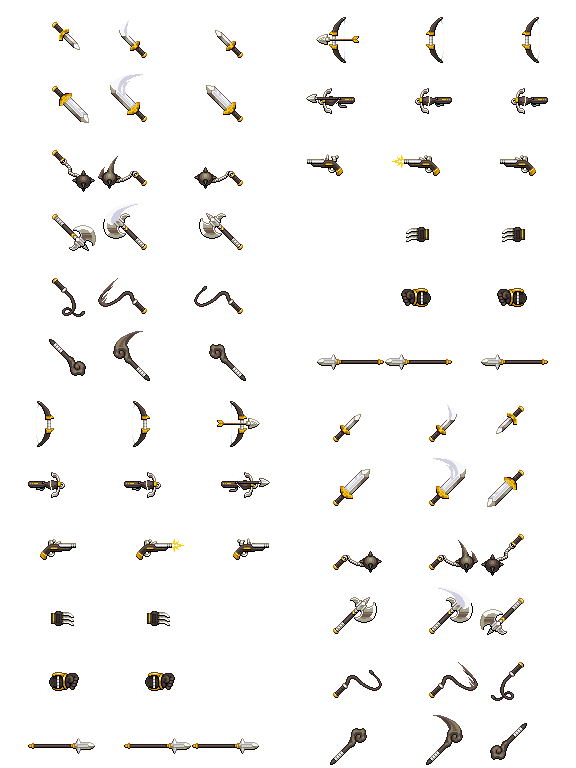
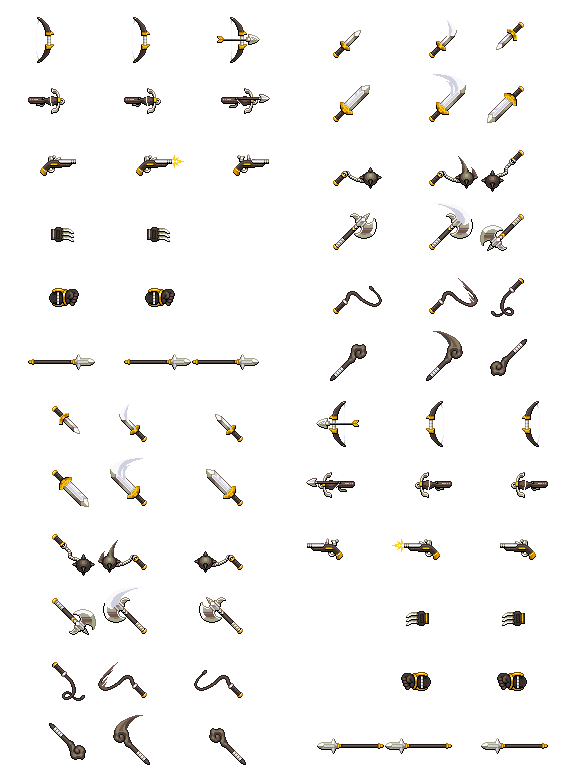
增加子彈、調整武器動畫
利用weapon物件

diff --git a/SlimeQQ_game.js b/SlimeQQ_game.js
@@ -48,6 +48,7 @@ game.States.preload = function(){
     	//game.load.image('slime',res_path + '/res/slime.png');
     	game.load.spritesheet('slime',res_path + '/img/sv_slime_sheet.png',64,64,54);
     	game.load.spritesheet('weapon',res_path + '/img/Weapons1+3.png',96,64,72);
+    	game.load.spritesheet('bullet',res_path + '/img/rgblaser.png', 4, 4);
     	//game.load.atlas();
     	/*
     	game.load.image('ground','assets/ground.png'); //地面
@@ -122,7 +123,7 @@ game.States.play = function(){
 		this.player.animations.add('move_left',[0,1,2,2,1,0],10,true);
 		this.player.animations.add('move_right',[6,7,8,8,7,6],10,true);
 		this.player.animations.add('attack',[12,13,14,12],6,false);
-		this.player.anchor.setTo(0.5,0.5);
+		this.player.anchor.setTo(0.5,0.6);
 		this.physics.arcade.enable(this.player);
 		this.player.body.collideWorldBounds = true;
 		this.player.body.setSize(50,40,7,24);
@@ -135,16 +136,30 @@ game.States.play = function(){
 		//生成武器
 
 		this.weapon = game.add.sprite(this.player.x,this.player.y,'weapon');
-		this.weapon.animations.add('gun_shut_left',[15,16,17],6,false);
-		this.weapon.animations.add('gun_shut_right',[57,58,59],6,false);
-		this.weapon.anchor.setTo(0.7,0.5);
+		//this.weapon.frame = 12;
+		this.weapon.animations.add('gun_shut_right',[14,13,12],9,false);
+		this.weapon.animations.add('gun_shut_left',[56,55,54],9,false);
+		this.weapon.anchor.setTo(0.2,0.5);
 		this.physics.arcade.enable(this.weapon);
 
 		this.player_group.add(this.weapon);
 		
-		this.weapon.frame = 17;
+		this.weapon.frame = 12;
+		//生成武器子彈
 
-		
+		this.bullet = game.add.weapon(40, 'bullet');
+		this.bullet.setBulletFrames(0, 80, true);
+		this.bullet.bulletKillType = Phaser.Weapon.KILL_DISTANCE;
+		this.bullet.bulletKillDistance = 500;
+		this.bullet.bulletSpeed = 1200;
+		//this.bullet.fireRate = 50;
+		this.bullet.trackSprite(this.weapon, 50, 0, true);
+		//this.bullet.trackedPointer = true;
+
+		//子彈發生頻率跟武器動畫
+		this.nextClick = this.time.now;
+		this.Clickstep = 500;
+		this.bullet.fireRate = this.Clickstep;
 
 		//控制
 		//game.input.onDown.add(this.attack,this);
@@ -172,57 +187,65 @@ game.States.play = function(){
 		//this.debug_show.style.backgroundColor = '#000';
 
 		//角色移動速度
-		this.step = 70;
-		this.speed = 700;
+		this.step = 2000;
+		this.speed = 1000;
 
-		//
-		this.nextClick = this.time.now;
-		this.Clickstep = 500;
+		//this.player.body.drag.set(800);
+    	this.player.body.maxVelocity.set(this.speed);
 
 	}
 	this.update = function(){
 		game.physics.arcade.collide(this.player,this.groundlayer);
+		game.physics.arcade.collide(this.bullet.bullets,this.groundlayer,this.bulletHitGround);
 
-		//this.player_group.setAll('body.velocity.x',this.player.body.velocity.x);
-		//this.player_group.setAll('body.velocity.y',this.player.body.velocity.y);
+		this.player_group.setAll('body.velocity.x',this.player.body.velocity.x);
+		this.player_group.setAll('body.velocity.y',this.player.body.velocity.y);
 		this.player_group.setAll('x',this.player.x);
 		this.player_group.setAll('y',this.player.y);
 
 		//武器跟著滑鼠
   		this.weapon.rotation = game.physics.arcade.angleToPointer(this.weapon);
-  		this.weapon.angle += 180;
+  		this.bullet.fireAngle = this.weapon.angle;
+
+  		//this.weapon.angle += 180;
+
   		if(Math.abs(this.weapon.angle)<=90)
-  			this.player_dir = 'left';
-  		else
   			this.player_dir = 'right';
+  		else
+  			this.player_dir = 'left';
 
 
 		var IsMove = 0;
 		
 		if (this.cursors.up.isDown || game.input.keyboard.isDown(Phaser.Keyboard.W)) {
-			this.player.body.velocity.y = this.move(this.player.body.velocity.y,this.speed,-1*this.step);
+			//this.player.body.velocity.y = this.move(this.player.body.velocity.y,this.speed,-1*this.step);
+			this.player.body.acceleration.y = -1*this.step;
 		}  		
   		else if (this.cursors.down.isDown || game.input.keyboard.isDown(Phaser.Keyboard.S)) {
- 			this.player.body.velocity.y = this.move(this.player.body.velocity.y,this.speed,this.step);
+ 			//this.player.body.velocity.y = this.move(this.player.body.velocity.y,this.speed,this.step);
+ 			this.player.body.acceleration.y = this.step;
   		}
   		else {
   			this.player.body.velocity.y += (-1*(this.player.body.velocity.y-0))/10;
+  			this.player.body.acceleration.y = 0;
   			//this.player.body.velocity.y = 0;
   			//this.player.body.velocity.y>0?this.player.body.velocity.y-=(this.step)*2:this.player.body.velocity.y+=(this.step)*2;
   			IsMove++;
   		}
   		
   		if (this.cursors.left.isDown || game.input.keyboard.isDown(Phaser.Keyboard.A)) {
-  			this.player.body.velocity.x = this.move(this.player.body.velocity.x,this.speed,-1*this.step);  			
+  			//this.player.body.velocity.x = this.move(this.player.body.velocity.x,this.speed,-1*this.step);  			
+  			this.player.body.acceleration.x = -1*this.step;
   			this.player.animations.play('move_'+this.player_dir);
   		}
   		else if (this.cursors.right.isDown || game.input.keyboard.isDown(Phaser.Keyboard.D)) {
-  			this.player.body.velocity.x = this.move(this.player.body.velocity.x,this.speed,this.step);
+  			//this.player.body.velocity.x = this.move(this.player.body.velocity.x,this.speed,this.step);
+  			this.player.body.acceleration.x = this.step;
   			this.player.animations.play('move_'+this.player_dir);
   		}
   		else {
   			this.player.body.velocity.x += (-1*(this.player.body.velocity.x-0))/10;
-  			//this.player.body.velocity.x = 0;
+  			this.player.body.acceleration.x = 0;
   			if(IsMove == 1) {
   				if(this.player.body.velocity.x<=20 && this.player.body.velocity.y<=20) {
   				this.player.animations.stop();
@@ -255,14 +278,15 @@ game.States.play = function(){
   				this.weapon.animations.play('gun_shut_'+this.player_dir);
   				this.nextClick = this.time.now + this.Clickstep;
   			}
+  			this.bullet.fire();
   		}
   		else
   		{
-  			if(this.player_dir == 'left') {
-  				this.weapon.frame = 17;
+  			if(this.player_dir == 'left' && this.weapon.frame<36) {
+  				this.weapon.frame += 42;
   			}
-  			else {
-  				this.weapon.frame = 59;
+  			else if(this.player_dir == 'right' && this.weapon.frame>35){
+  				this.weapon.frame -= 42;
   			}
   		}
 
@@ -299,11 +323,16 @@ game.States.play = function(){
 
   		//debug資訊顯示
   		this.debug_show.text = 'debug資訊\nx:' + this.player.body.x + '\ny:' + this.player.body.y;
+  		this.debug_show.text += '\nV :'+this.player.body.velocity + 'max V: ' + this.player.body.maxVelocity;
   		this.debug_show.text += '\nblood: '+this.blood_value + '/' + this.blood_max;
   		this.debug_show.text += '\npollution: '+this.pollution_value + '/' + this.pollution_max;
   		this.debug_show.text += '\nweapon f : '+this.weapon.frame;
   		this.debug_show.text += '\nweapon angle: '+this.weapon.angle+',weapon rotation: '+this.weapon.rotation;
 	}
+	this.render = function() {
+		//this.player.debug();
+	}
+
 	this.move = function(value,speed,step) {
 		var dir = step > 0?1:-1;
 		/*
@@ -321,6 +350,9 @@ game.States.play = function(){
 
 	this.attack = function() {
 		this.player.animations.play('attack');
+	}
+	this.bulletHitGround = function(bullet,ground) {
+		bullet.kill();
 	}
 
 }
